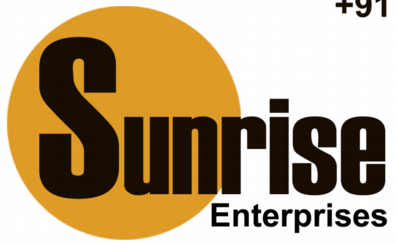
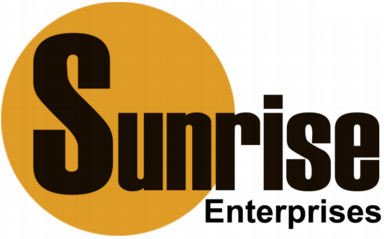
added nav bar and updated sunrise image

diff --git a/solution/home.html b/solution/home.html
@@ -28,21 +28,21 @@
    <script type="js/script.js"></script>
    
    <div class="navbar navbar-default navbar-fixed-top">  
-      <div class="container">
          <div id="logo" >      
-         <!-- <img src="C:\Users\satish\Desktop\SatishPatil\Sunrise.png" alt="no image" style="width:260px;height:108px;">--> 
          <img src="images\Sunrise.png" alt="image location mismatch" style="width:260px;height:108px;">
          </div>
-         
-         <div class="menubar" >
-         <ul >
-            <li><a href="#">Customer</a></li>
+        
+         <div class=" menubar collapse navbar-collapse navbar-ex1-collapse" >
+         <ul class="nav navbar-nav navbar-right ">
+            <li><a href="#">Customers</a></li>
             <li><a href="#">About US</a></li>
+            <li><a href="#">Support</a></li>
             <li><a href="#">Contact Us</a></li>
-         </ul> 
-            
-         </div>
-     </div> 
+         </ul>     
+         </div> 
+
+        
+     
    </div>
 
       

diff --git a/solution/css/style.css b/solution/css/style.css
@@ -14,13 +14,10 @@
 
 #logo{
 	display: inline-block;
-
+	float: left;
 }
 .menubar{
-	display: inline-block;
-	
+	text-transform: uppercase;
+	padding-top: 30px;
 }
 
-ul{
-	list-style-type: none;
-}
